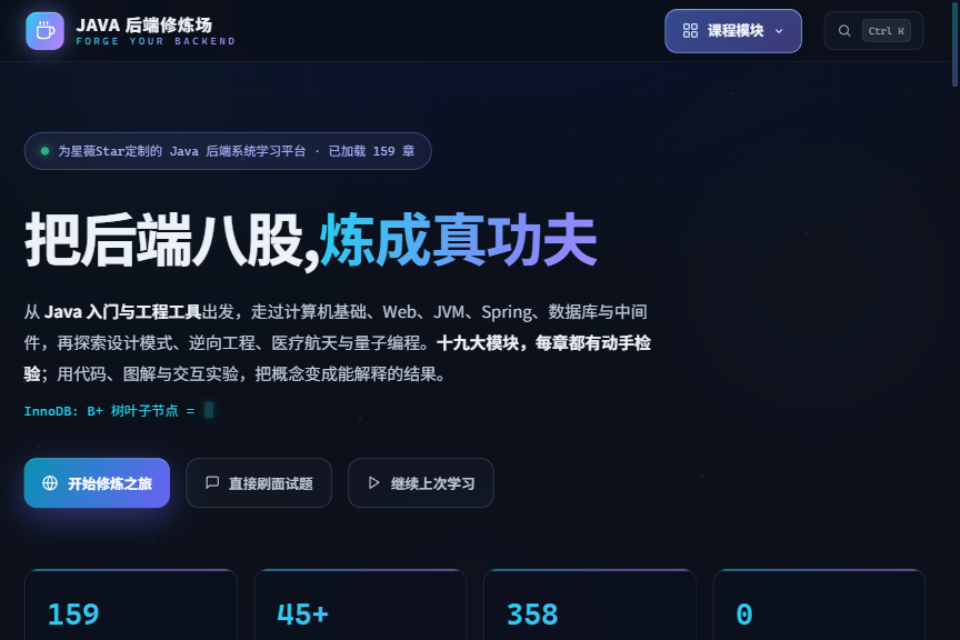
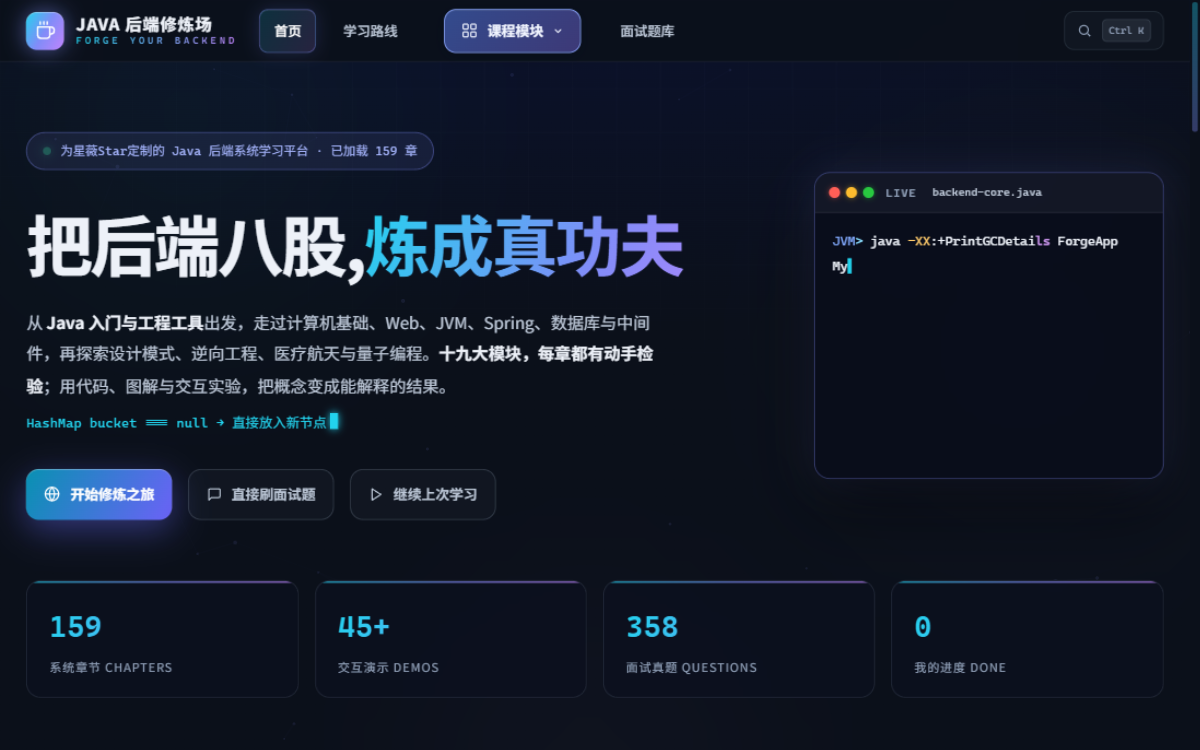
docs: 更新量子编程模块截图与 README 说明（159 章）

diff --git a/README.md b/README.md
@@ -2,13 +2,15 @@
 
 零构建的 Java 后端学习站，阅读和代码运行均在浏览器内完成，只需 HTTP(S) 静态托管。当前为 **19 个模块、159 章、159 个对应练习、约 117 万正文字符、358 道面试题**。页面注册了 74 张 SVG 图解和 45 个知识交互演示，另有 6 个课程窗口模型和逆向 18 章免环境实验入口；课程正文使用其中 71 处图解引用、44 处知识演示引用，注册数量与引用数量并不相同。
 
+> **2026-11-22 更新**：原“宇宙航行”模块已重构为 **14 章“量子编程”**，覆盖量子比特、量子门、测量与噪声、Grover/Shor/QFT、变分算法、Qiskit/Cirq/Q#、硬件、纠错与后量子密码；同步新增 Bloch 球与 Grover 交互演示、3 张量子图解，并更新本页截图。
+
 ## 界面截图
 
-| 首页 | 模块页 |
+| 首页 | 量子编程模块（14 章） |
 | --- | --- |
 | ![首页](docs/screenshots/home.png) | ![量子编程模块](docs/screenshots/module.png) |
 
-> 截图来自本地静态预览，960×640 视口；课程运行器在浏览器内执行代码。
+> 截图来自本地静态预览：首页 1200×750，模块页 960×640；课程运行器在浏览器内执行代码。
 
 ## 启动
 
